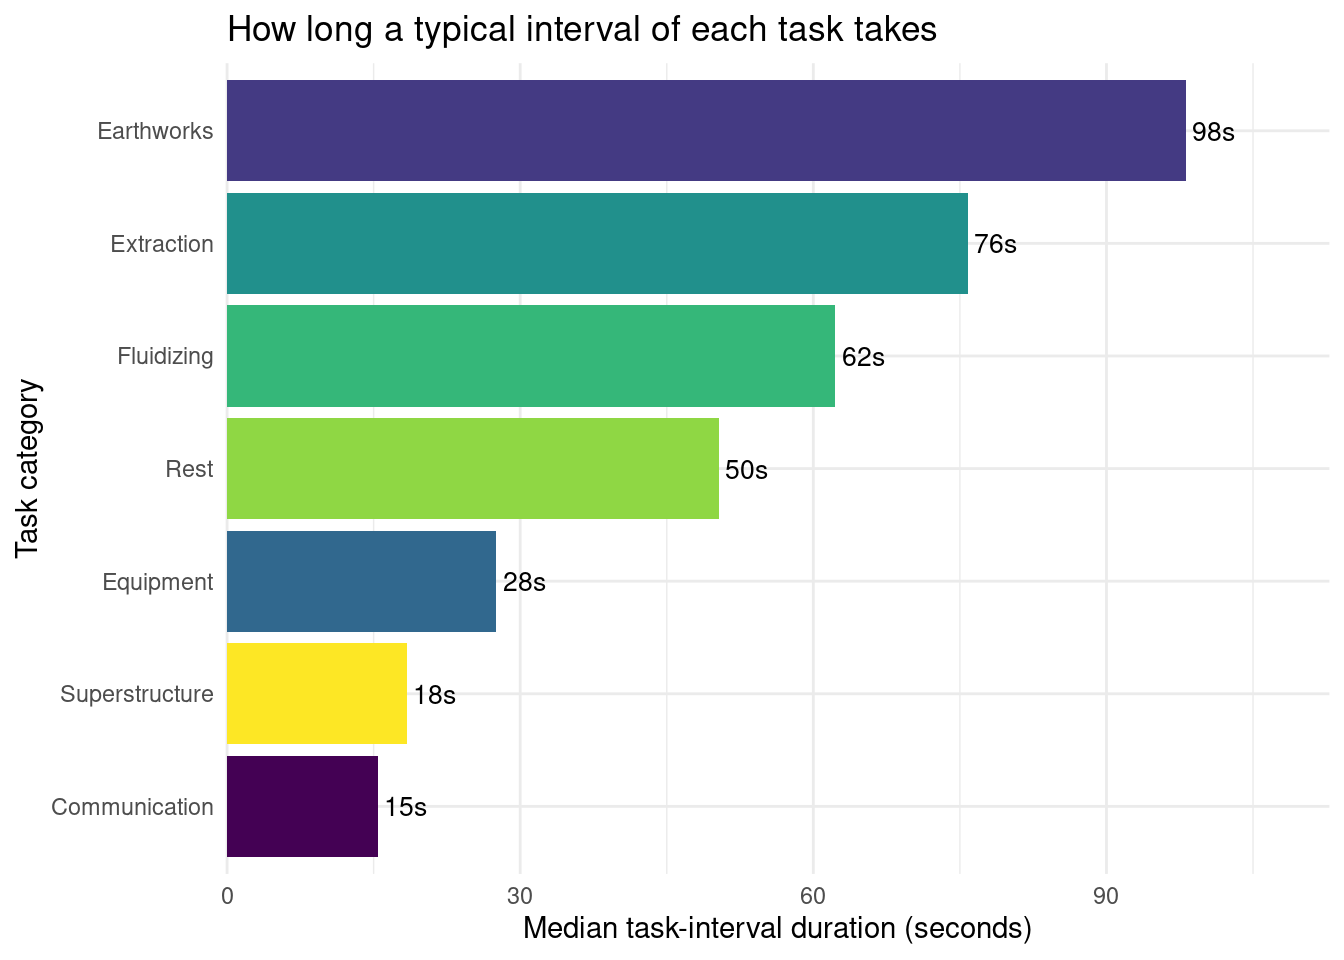
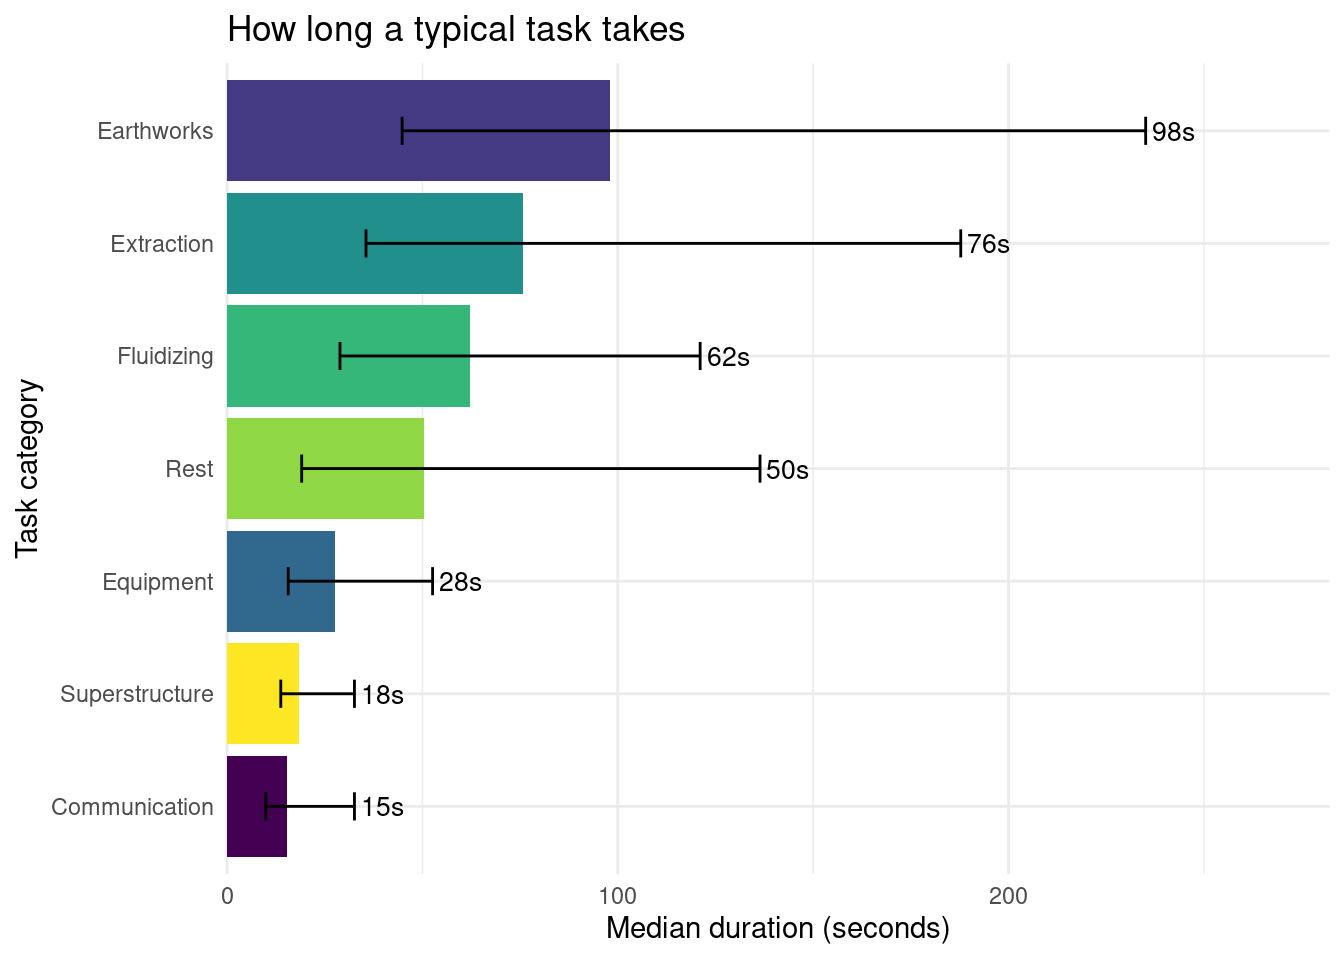
Changed figures to improve comprehension. Removed superfluous bullet point in comculsions section.

diff --git a/docs/index.html b/docs/index.html
@@ -240,16 +240,19 @@ $ job_date         &lt;date&gt; 2026-05-21, 2026-05-21, 2026-05-21, 2026-05-21, 
 <span id="cb5-3"><a href="#cb5-3" aria-hidden="true" tabindex="-1"></a>  <span class="fu">summarise</span>(<span class="at">total_minutes =</span> <span class="fu">sum</span>(duration_seconds) <span class="sc">/</span> <span class="dv">60</span>) <span class="sc">%&gt;%</span></span>
 <span id="cb5-4"><a href="#cb5-4" aria-hidden="true" tabindex="-1"></a>  <span class="fu">arrange</span>(<span class="fu">desc</span>(total_minutes))</span>
 <span id="cb5-5"><a href="#cb5-5" aria-hidden="true" tabindex="-1"></a></span>
-<span id="cb5-6"><a href="#cb5-6" aria-hidden="true" tabindex="-1"></a><span class="fu">ggplot</span>(task_time, <span class="fu">aes</span>(<span class="at">x =</span> <span class="fu">fct_reorder</span>(task, total_minutes), <span class="at">y =</span> total_minutes, <span class="at">fill =</span> task)) <span class="sc">+</span></span>
-<span id="cb5-7"><a href="#cb5-7" aria-hidden="true" tabindex="-1"></a>  <span class="fu">geom_col</span>(<span class="at">show.legend =</span> <span class="cn">FALSE</span>) <span class="sc">+</span></span>
-<span id="cb5-8"><a href="#cb5-8" aria-hidden="true" tabindex="-1"></a>  <span class="fu">coord_flip</span>() <span class="sc">+</span></span>
-<span id="cb5-9"><a href="#cb5-9" aria-hidden="true" tabindex="-1"></a>  <span class="fu">scale_fill_viridis_d</span>() <span class="sc">+</span></span>
-<span id="cb5-10"><a href="#cb5-10" aria-hidden="true" tabindex="-1"></a>  <span class="fu">labs</span>(</span>
-<span id="cb5-11"><a href="#cb5-11" aria-hidden="true" tabindex="-1"></a>    <span class="at">x =</span> <span class="st">"Task category"</span>,</span>
-<span id="cb5-12"><a href="#cb5-12" aria-hidden="true" tabindex="-1"></a>    <span class="at">y =</span> <span class="st">"Total observed time (minutes)"</span>,</span>
-<span id="cb5-13"><a href="#cb5-13" aria-hidden="true" tabindex="-1"></a>    <span class="at">title =</span> <span class="st">"Where gulpers' time goes"</span></span>
-<span id="cb5-14"><a href="#cb5-14" aria-hidden="true" tabindex="-1"></a>  ) <span class="sc">+</span></span>
-<span id="cb5-15"><a href="#cb5-15" aria-hidden="true" tabindex="-1"></a>  <span class="fu">theme_minimal</span>()</span></code></pre></div><button title="Copy to Clipboard" class="code-copy-button"><i class="bi"></i></button></div>
+<span id="cb5-6"><a href="#cb5-6" aria-hidden="true" tabindex="-1"></a>max_axis_minutes <span class="ot">&lt;-</span> <span class="fu">ceiling</span>(<span class="fu">max</span>(task_time<span class="sc">$</span>total_minutes) <span class="sc">/</span> <span class="dv">30</span>) <span class="sc">*</span> <span class="dv">30</span></span>
+<span id="cb5-7"><a href="#cb5-7" aria-hidden="true" tabindex="-1"></a></span>
+<span id="cb5-8"><a href="#cb5-8" aria-hidden="true" tabindex="-1"></a><span class="fu">ggplot</span>(task_time, <span class="fu">aes</span>(<span class="at">x =</span> <span class="fu">fct_reorder</span>(task, total_minutes), <span class="at">y =</span> total_minutes, <span class="at">fill =</span> task)) <span class="sc">+</span></span>
+<span id="cb5-9"><a href="#cb5-9" aria-hidden="true" tabindex="-1"></a>  <span class="fu">geom_col</span>(<span class="at">show.legend =</span> <span class="cn">FALSE</span>) <span class="sc">+</span></span>
+<span id="cb5-10"><a href="#cb5-10" aria-hidden="true" tabindex="-1"></a>  <span class="fu">coord_flip</span>() <span class="sc">+</span></span>
+<span id="cb5-11"><a href="#cb5-11" aria-hidden="true" tabindex="-1"></a>  <span class="fu">scale_fill_viridis_d</span>() <span class="sc">+</span></span>
+<span id="cb5-12"><a href="#cb5-12" aria-hidden="true" tabindex="-1"></a>  <span class="fu">scale_y_continuous</span>(<span class="at">breaks =</span> <span class="fu">seq</span>(<span class="dv">0</span>, max_axis_minutes, <span class="at">by =</span> <span class="dv">30</span>)) <span class="sc">+</span></span>
+<span id="cb5-13"><a href="#cb5-13" aria-hidden="true" tabindex="-1"></a>  <span class="fu">labs</span>(</span>
+<span id="cb5-14"><a href="#cb5-14" aria-hidden="true" tabindex="-1"></a>    <span class="at">x =</span> <span class="st">"Task category"</span>,</span>
+<span id="cb5-15"><a href="#cb5-15" aria-hidden="true" tabindex="-1"></a>    <span class="at">y =</span> <span class="st">"Total observed time (minutes)"</span>,</span>
+<span id="cb5-16"><a href="#cb5-16" aria-hidden="true" tabindex="-1"></a>    <span class="at">title =</span> <span class="st">"Where gulpers' time goes"</span></span>
+<span id="cb5-17"><a href="#cb5-17" aria-hidden="true" tabindex="-1"></a>  ) <span class="sc">+</span></span>
+<span id="cb5-18"><a href="#cb5-18" aria-hidden="true" tabindex="-1"></a>  <span class="fu">theme_minimal</span>()</span></code></pre></div><button title="Copy to Clipboard" class="code-copy-button"><i class="bi"></i></button></div>
 <div class="cell-output-display">
 <div id="fig-task-time" class="quarto-float quarto-figure quarto-figure-center anchored">
 <figure class="quarto-float quarto-float-fig figure">
@@ -268,26 +271,45 @@ Figure&nbsp;1: Total observed time by task category, summed across all three rid
 <section id="share-of-job-time-by-task" class="level2">
 <h2 class="anchored" data-anchor-id="share-of-job-time-by-task">Share of job time by task</h2>
 <div class="cell">
-<div class="code-copy-outer-scaffold"><div class="sourceCode cell-code" id="cb6"><pre class="sourceCode r code-with-copy"><code class="sourceCode r"><span id="cb6-1"><a href="#cb6-1" aria-hidden="true" tabindex="-1"></a>job_labels <span class="ot">&lt;-</span> gulper_data <span class="sc">%&gt;%</span></span>
-<span id="cb6-2"><a href="#cb6-2" aria-hidden="true" tabindex="-1"></a>  <span class="fu">mutate</span>(<span class="at">job_date =</span> <span class="fu">as.character</span>(job_date))</span>
+<div class="code-copy-outer-scaffold"><div class="sourceCode cell-code" id="cb6"><pre class="sourceCode r code-with-copy"><code class="sourceCode r"><span id="cb6-1"><a href="#cb6-1" aria-hidden="true" tabindex="-1"></a>job_dates <span class="ot">&lt;-</span> <span class="fu">sort</span>(<span class="fu">unique</span>(<span class="fu">as.character</span>(gulper_data<span class="sc">$</span>job_date)))</span>
+<span id="cb6-2"><a href="#cb6-2" aria-hidden="true" tabindex="-1"></a>job_tick_labels <span class="ot">&lt;-</span> <span class="fu">paste0</span>(<span class="st">"Job "</span>, <span class="fu">seq_along</span>(job_dates), <span class="st">"</span><span class="sc">\n</span><span class="st">"</span>, job_dates)</span>
 <span id="cb6-3"><a href="#cb6-3" aria-hidden="true" tabindex="-1"></a></span>
-<span id="cb6-4"><a href="#cb6-4" aria-hidden="true" tabindex="-1"></a>job_share_data <span class="ot">&lt;-</span> <span class="fu">bind_rows</span>(</span>
-<span id="cb6-5"><a href="#cb6-5" aria-hidden="true" tabindex="-1"></a>  job_labels,</span>
-<span id="cb6-6"><a href="#cb6-6" aria-hidden="true" tabindex="-1"></a>  job_labels <span class="sc">%&gt;%</span> <span class="fu">mutate</span>(<span class="at">job_date =</span> <span class="st">"All jobs"</span>)</span>
+<span id="cb6-4"><a href="#cb6-4" aria-hidden="true" tabindex="-1"></a>job_percent_data <span class="ot">&lt;-</span> <span class="fu">bind_rows</span>(</span>
+<span id="cb6-5"><a href="#cb6-5" aria-hidden="true" tabindex="-1"></a>  gulper_data <span class="sc">%&gt;%</span> <span class="fu">mutate</span>(<span class="at">job_date =</span> <span class="fu">as.character</span>(job_date)),</span>
+<span id="cb6-6"><a href="#cb6-6" aria-hidden="true" tabindex="-1"></a>  gulper_data <span class="sc">%&gt;%</span> <span class="fu">mutate</span>(<span class="at">job_date =</span> <span class="st">"All jobs"</span>)</span>
 <span id="cb6-7"><a href="#cb6-7" aria-hidden="true" tabindex="-1"></a>) <span class="sc">%&gt;%</span></span>
-<span id="cb6-8"><a href="#cb6-8" aria-hidden="true" tabindex="-1"></a>  <span class="fu">mutate</span>(<span class="at">job_date =</span> <span class="fu">factor</span>(job_date, <span class="at">levels =</span> <span class="fu">c</span>(<span class="fu">sort</span>(<span class="fu">unique</span>(job_labels<span class="sc">$</span>job_date)), <span class="st">"All jobs"</span>)))</span>
-<span id="cb6-9"><a href="#cb6-9" aria-hidden="true" tabindex="-1"></a></span>
-<span id="cb6-10"><a href="#cb6-10" aria-hidden="true" tabindex="-1"></a><span class="fu">ggplot</span>(job_share_data, <span class="fu">aes</span>(<span class="at">x =</span> job_date, <span class="at">y =</span> duration_seconds, <span class="at">fill =</span> task)) <span class="sc">+</span></span>
-<span id="cb6-11"><a href="#cb6-11" aria-hidden="true" tabindex="-1"></a>  <span class="fu">geom_col</span>(<span class="at">position =</span> <span class="st">"fill"</span>) <span class="sc">+</span></span>
-<span id="cb6-12"><a href="#cb6-12" aria-hidden="true" tabindex="-1"></a>  <span class="fu">scale_y_continuous</span>(<span class="at">labels =</span> scales<span class="sc">::</span>percent) <span class="sc">+</span></span>
-<span id="cb6-13"><a href="#cb6-13" aria-hidden="true" tabindex="-1"></a>  <span class="fu">scale_fill_viridis_d</span>() <span class="sc">+</span></span>
-<span id="cb6-14"><a href="#cb6-14" aria-hidden="true" tabindex="-1"></a>  <span class="fu">labs</span>(</span>
-<span id="cb6-15"><a href="#cb6-15" aria-hidden="true" tabindex="-1"></a>    <span class="at">x =</span> <span class="st">"Job (session date)"</span>,</span>
-<span id="cb6-16"><a href="#cb6-16" aria-hidden="true" tabindex="-1"></a>    <span class="at">y =</span> <span class="st">"Share of job time"</span>,</span>
-<span id="cb6-17"><a href="#cb6-17" aria-hidden="true" tabindex="-1"></a>    <span class="at">fill =</span> <span class="st">"Task category"</span>,</span>
-<span id="cb6-18"><a href="#cb6-18" aria-hidden="true" tabindex="-1"></a>    <span class="at">title =</span> <span class="st">"How a job's time breaks down, task by task"</span></span>
-<span id="cb6-19"><a href="#cb6-19" aria-hidden="true" tabindex="-1"></a>  ) <span class="sc">+</span></span>
-<span id="cb6-20"><a href="#cb6-20" aria-hidden="true" tabindex="-1"></a>  <span class="fu">theme_minimal</span>()</span></code></pre></div><button title="Copy to Clipboard" class="code-copy-button"><i class="bi"></i></button></div>
+<span id="cb6-8"><a href="#cb6-8" aria-hidden="true" tabindex="-1"></a>  <span class="fu">group_by</span>(job_date, task) <span class="sc">%&gt;%</span></span>
+<span id="cb6-9"><a href="#cb6-9" aria-hidden="true" tabindex="-1"></a>  <span class="fu">summarise</span>(<span class="at">total_seconds =</span> <span class="fu">sum</span>(duration_seconds), <span class="at">.groups =</span> <span class="st">"drop_last"</span>) <span class="sc">%&gt;%</span></span>
+<span id="cb6-10"><a href="#cb6-10" aria-hidden="true" tabindex="-1"></a>  <span class="fu">mutate</span>(<span class="at">pct =</span> <span class="dv">100</span> <span class="sc">*</span> total_seconds <span class="sc">/</span> <span class="fu">sum</span>(total_seconds)) <span class="sc">%&gt;%</span></span>
+<span id="cb6-11"><a href="#cb6-11" aria-hidden="true" tabindex="-1"></a>  <span class="fu">ungroup</span>() <span class="sc">%&gt;%</span></span>
+<span id="cb6-12"><a href="#cb6-12" aria-hidden="true" tabindex="-1"></a>  <span class="fu">mutate</span>(</span>
+<span id="cb6-13"><a href="#cb6-13" aria-hidden="true" tabindex="-1"></a>    <span class="at">job_label =</span> <span class="fu">if_else</span>(</span>
+<span id="cb6-14"><a href="#cb6-14" aria-hidden="true" tabindex="-1"></a>      job_date <span class="sc">==</span> <span class="st">"All jobs"</span>,</span>
+<span id="cb6-15"><a href="#cb6-15" aria-hidden="true" tabindex="-1"></a>      <span class="st">"All jobs"</span>,</span>
+<span id="cb6-16"><a href="#cb6-16" aria-hidden="true" tabindex="-1"></a>      job_tick_labels[<span class="fu">match</span>(job_date, job_dates)]</span>
+<span id="cb6-17"><a href="#cb6-17" aria-hidden="true" tabindex="-1"></a>    ),</span>
+<span id="cb6-18"><a href="#cb6-18" aria-hidden="true" tabindex="-1"></a>    <span class="co"># a blank, data-free level between "Job 3" and "All jobs" creates a visual gap</span></span>
+<span id="cb6-19"><a href="#cb6-19" aria-hidden="true" tabindex="-1"></a>    <span class="at">job_label =</span> <span class="fu">factor</span>(job_label, <span class="at">levels =</span> <span class="fu">c</span>(job_tick_labels, <span class="st">" "</span>, <span class="st">"All jobs"</span>))</span>
+<span id="cb6-20"><a href="#cb6-20" aria-hidden="true" tabindex="-1"></a>  )</span>
+<span id="cb6-21"><a href="#cb6-21" aria-hidden="true" tabindex="-1"></a></span>
+<span id="cb6-22"><a href="#cb6-22" aria-hidden="true" tabindex="-1"></a><span class="fu">ggplot</span>(job_percent_data, <span class="fu">aes</span>(<span class="at">x =</span> job_label, <span class="at">y =</span> pct, <span class="at">fill =</span> task)) <span class="sc">+</span></span>
+<span id="cb6-23"><a href="#cb6-23" aria-hidden="true" tabindex="-1"></a>  <span class="fu">geom_col</span>() <span class="sc">+</span></span>
+<span id="cb6-24"><a href="#cb6-24" aria-hidden="true" tabindex="-1"></a>  <span class="fu">geom_text</span>(</span>
+<span id="cb6-25"><a href="#cb6-25" aria-hidden="true" tabindex="-1"></a>    <span class="fu">aes</span>(<span class="at">label =</span> <span class="fu">if_else</span>(pct <span class="sc">&gt;=</span> <span class="dv">4</span>, <span class="fu">paste0</span>(<span class="fu">round</span>(pct), <span class="st">"%"</span>), <span class="st">""</span>)),</span>
+<span id="cb6-26"><a href="#cb6-26" aria-hidden="true" tabindex="-1"></a>    <span class="at">position =</span> <span class="fu">position_stack</span>(<span class="at">vjust =</span> <span class="fl">0.5</span>),</span>
+<span id="cb6-27"><a href="#cb6-27" aria-hidden="true" tabindex="-1"></a>    <span class="at">size =</span> <span class="dv">3</span>,</span>
+<span id="cb6-28"><a href="#cb6-28" aria-hidden="true" tabindex="-1"></a>    <span class="at">colour =</span> <span class="st">"white"</span></span>
+<span id="cb6-29"><a href="#cb6-29" aria-hidden="true" tabindex="-1"></a>  ) <span class="sc">+</span></span>
+<span id="cb6-30"><a href="#cb6-30" aria-hidden="true" tabindex="-1"></a>  <span class="fu">scale_x_discrete</span>(<span class="at">drop =</span> <span class="cn">FALSE</span>) <span class="sc">+</span></span>
+<span id="cb6-31"><a href="#cb6-31" aria-hidden="true" tabindex="-1"></a>  <span class="fu">scale_y_continuous</span>(<span class="at">labels =</span> <span class="cf">function</span>(x) <span class="fu">paste0</span>(x, <span class="st">"%"</span>)) <span class="sc">+</span></span>
+<span id="cb6-32"><a href="#cb6-32" aria-hidden="true" tabindex="-1"></a>  <span class="fu">scale_fill_viridis_d</span>() <span class="sc">+</span></span>
+<span id="cb6-33"><a href="#cb6-33" aria-hidden="true" tabindex="-1"></a>  <span class="fu">labs</span>(</span>
+<span id="cb6-34"><a href="#cb6-34" aria-hidden="true" tabindex="-1"></a>    <span class="at">x =</span> <span class="st">"Job"</span>,</span>
+<span id="cb6-35"><a href="#cb6-35" aria-hidden="true" tabindex="-1"></a>    <span class="at">y =</span> <span class="st">"Share of job time"</span>,</span>
+<span id="cb6-36"><a href="#cb6-36" aria-hidden="true" tabindex="-1"></a>    <span class="at">fill =</span> <span class="st">"Task category"</span>,</span>
+<span id="cb6-37"><a href="#cb6-37" aria-hidden="true" tabindex="-1"></a>    <span class="at">title =</span> <span class="st">"How a job's time breaks down, task by task"</span></span>
+<span id="cb6-38"><a href="#cb6-38" aria-hidden="true" tabindex="-1"></a>  ) <span class="sc">+</span></span>
+<span id="cb6-39"><a href="#cb6-39" aria-hidden="true" tabindex="-1"></a>  <span class="fu">theme_minimal</span>()</span></code></pre></div><button title="Copy to Clipboard" class="code-copy-button"><i class="bi"></i></button></div>
 <div class="cell-output-display">
 <div id="fig-task-share" class="quarto-float quarto-figure quarto-figure-center anchored">
 <figure class="quarto-float quarto-float-fig figure">
@@ -295,34 +317,39 @@ Figure&nbsp;1: Total observed time by task category, summed across all three rid
 <img src="index_files/figure-html/fig-task-share-1.png" class="img-fluid figure-img" width="672">
 </div>
 <figcaption class="quarto-float-caption-bottom quarto-float-caption quarto-float-fig" id="fig-task-share-caption-0ceaefa1-69ba-4598-a22c-09a6ac19f8ca">
-Figure&nbsp;2: Percentage of each job’s total observed time spent on each task category, shown for the three individual ridealong sessions plus a fourth ‘All jobs’ column combining all three.
+Figure&nbsp;2: Percentage of each job’s total observed time spent on each task category, for the three individual ridealong sessions (Job 1-3, labelled with their session dates) plus a combined ‘All jobs’ column, separated by a gap from the individual jobs. Segment labels give the exact percentage for shares of 4% or more.
 </figcaption>
 </figure>
 </div>
 </div>
 </div>
-<p><a href="#fig-task-share" class="quarto-xref">Figure&nbsp;2</a> shows that Earthworks is the single largest share of every job (29-45%), but the balance of the rest of the time shifts a lot from job to job: Extraction and Fluidizing together used over 40% of the 31 May session but under 15% of the 13 June session, while Rest was rare on 31 May (3%) yet accounted for over 40% of the 13 June session. The combined “All jobs” column averages this out to roughly 35% Earthworks, 31% Rest, 11% Extraction, 9% Fluidizing, 8% Equipment, 5% Communication and 1% Superstructure, which is a useful overall benchmark but masks how much the mix actually swings from one job to the next. A single fixed cost-driver rate per task would therefore understate the cost of jobs with more digging and recovery time and overstate the cost of jobs dominated by fluidizing and extraction.</p>
+<p><a href="#fig-task-share" class="quarto-xref">Figure&nbsp;2</a> shows that Earthworks is the single largest share of every job (29-45%), but the balance of the rest of the time shifts a lot from job to job: Extraction and Fluidizing together used over 40% of Job 2 (31 May) but under 15% of Job 3 (13 June), while Rest was rare on Job 2 (3%) yet accounted for over 40% of Job 3. The combined “All jobs” column, set apart with its own gap, averages this out to roughly 35% Earthworks, 31% Rest, 11% Extraction, 9% Fluidizing, 8% Equipment, 5% Communication and 1% Superstructure, which is a useful overall benchmark but masks how much the mix actually swings from one job to the next. A single fixed cost-driver rate per task would therefore understate the cost of jobs with more digging and recovery time and overstate the cost of jobs dominated by fluidizing and extraction.</p>
 </section>
 <section id="typical-duration-by-task" class="level2">
 <h2 class="anchored" data-anchor-id="typical-duration-by-task">Typical duration by task</h2>
 <div class="cell">
 <div class="code-copy-outer-scaffold"><div class="sourceCode cell-code" id="cb7"><pre class="sourceCode r code-with-copy"><code class="sourceCode r"><span id="cb7-1"><a href="#cb7-1" aria-hidden="true" tabindex="-1"></a>task_duration_typical <span class="ot">&lt;-</span> gulper_data <span class="sc">%&gt;%</span></span>
 <span id="cb7-2"><a href="#cb7-2" aria-hidden="true" tabindex="-1"></a>  <span class="fu">group_by</span>(task) <span class="sc">%&gt;%</span></span>
-<span id="cb7-3"><a href="#cb7-3" aria-hidden="true" tabindex="-1"></a>  <span class="fu">summarise</span>(<span class="at">median_sec =</span> <span class="fu">median</span>(duration_seconds)) <span class="sc">%&gt;%</span></span>
-<span id="cb7-4"><a href="#cb7-4" aria-hidden="true" tabindex="-1"></a>  <span class="fu">arrange</span>(<span class="fu">desc</span>(median_sec))</span>
-<span id="cb7-5"><a href="#cb7-5" aria-hidden="true" tabindex="-1"></a></span>
-<span id="cb7-6"><a href="#cb7-6" aria-hidden="true" tabindex="-1"></a><span class="fu">ggplot</span>(task_duration_typical, <span class="fu">aes</span>(<span class="at">x =</span> <span class="fu">fct_reorder</span>(task, median_sec), <span class="at">y =</span> median_sec, <span class="at">fill =</span> task)) <span class="sc">+</span></span>
-<span id="cb7-7"><a href="#cb7-7" aria-hidden="true" tabindex="-1"></a>  <span class="fu">geom_col</span>(<span class="at">show.legend =</span> <span class="cn">FALSE</span>) <span class="sc">+</span></span>
-<span id="cb7-8"><a href="#cb7-8" aria-hidden="true" tabindex="-1"></a>  <span class="fu">geom_text</span>(<span class="fu">aes</span>(<span class="at">label =</span> <span class="fu">paste0</span>(<span class="fu">round</span>(median_sec), <span class="st">"s"</span>)), <span class="at">hjust =</span> <span class="sc">-</span><span class="fl">0.15</span>, <span class="at">size =</span> <span class="fl">3.5</span>) <span class="sc">+</span></span>
-<span id="cb7-9"><a href="#cb7-9" aria-hidden="true" tabindex="-1"></a>  <span class="fu">coord_flip</span>(<span class="at">clip =</span> <span class="st">"off"</span>) <span class="sc">+</span></span>
-<span id="cb7-10"><a href="#cb7-10" aria-hidden="true" tabindex="-1"></a>  <span class="fu">scale_fill_viridis_d</span>() <span class="sc">+</span></span>
-<span id="cb7-11"><a href="#cb7-11" aria-hidden="true" tabindex="-1"></a>  <span class="fu">scale_y_continuous</span>(<span class="at">expand =</span> <span class="fu">expansion</span>(<span class="at">mult =</span> <span class="fu">c</span>(<span class="dv">0</span>, <span class="fl">0.15</span>))) <span class="sc">+</span></span>
-<span id="cb7-12"><a href="#cb7-12" aria-hidden="true" tabindex="-1"></a>  <span class="fu">labs</span>(</span>
-<span id="cb7-13"><a href="#cb7-13" aria-hidden="true" tabindex="-1"></a>    <span class="at">x =</span> <span class="st">"Task category"</span>,</span>
-<span id="cb7-14"><a href="#cb7-14" aria-hidden="true" tabindex="-1"></a>    <span class="at">y =</span> <span class="st">"Median task-interval duration (seconds)"</span>,</span>
-<span id="cb7-15"><a href="#cb7-15" aria-hidden="true" tabindex="-1"></a>    <span class="at">title =</span> <span class="st">"How long a typical interval of each task takes"</span></span>
-<span id="cb7-16"><a href="#cb7-16" aria-hidden="true" tabindex="-1"></a>  ) <span class="sc">+</span></span>
-<span id="cb7-17"><a href="#cb7-17" aria-hidden="true" tabindex="-1"></a>  <span class="fu">theme_minimal</span>()</span></code></pre></div><button title="Copy to Clipboard" class="code-copy-button"><i class="bi"></i></button></div>
+<span id="cb7-3"><a href="#cb7-3" aria-hidden="true" tabindex="-1"></a>  <span class="fu">summarise</span>(</span>
+<span id="cb7-4"><a href="#cb7-4" aria-hidden="true" tabindex="-1"></a>    <span class="at">median_sec =</span> <span class="fu">median</span>(duration_seconds),</span>
+<span id="cb7-5"><a href="#cb7-5" aria-hidden="true" tabindex="-1"></a>    <span class="at">q1_sec =</span> <span class="fu">quantile</span>(duration_seconds, <span class="fl">0.25</span>),</span>
+<span id="cb7-6"><a href="#cb7-6" aria-hidden="true" tabindex="-1"></a>    <span class="at">q3_sec =</span> <span class="fu">quantile</span>(duration_seconds, <span class="fl">0.75</span>)</span>
+<span id="cb7-7"><a href="#cb7-7" aria-hidden="true" tabindex="-1"></a>  ) <span class="sc">%&gt;%</span></span>
+<span id="cb7-8"><a href="#cb7-8" aria-hidden="true" tabindex="-1"></a>  <span class="fu">arrange</span>(<span class="fu">desc</span>(median_sec))</span>
+<span id="cb7-9"><a href="#cb7-9" aria-hidden="true" tabindex="-1"></a></span>
+<span id="cb7-10"><a href="#cb7-10" aria-hidden="true" tabindex="-1"></a><span class="fu">ggplot</span>(task_duration_typical, <span class="fu">aes</span>(<span class="at">x =</span> <span class="fu">fct_reorder</span>(task, median_sec), <span class="at">y =</span> median_sec, <span class="at">fill =</span> task)) <span class="sc">+</span></span>
+<span id="cb7-11"><a href="#cb7-11" aria-hidden="true" tabindex="-1"></a>  <span class="fu">geom_col</span>(<span class="at">show.legend =</span> <span class="cn">FALSE</span>) <span class="sc">+</span></span>
+<span id="cb7-12"><a href="#cb7-12" aria-hidden="true" tabindex="-1"></a>  <span class="fu">geom_errorbar</span>(<span class="fu">aes</span>(<span class="at">ymin =</span> q1_sec, <span class="at">ymax =</span> q3_sec), <span class="at">width =</span> <span class="fl">0.25</span>) <span class="sc">+</span></span>
+<span id="cb7-13"><a href="#cb7-13" aria-hidden="true" tabindex="-1"></a>  <span class="fu">geom_text</span>(<span class="fu">aes</span>(<span class="at">y =</span> q3_sec, <span class="at">label =</span> <span class="fu">paste0</span>(<span class="fu">round</span>(median_sec), <span class="st">"s"</span>)), <span class="at">hjust =</span> <span class="sc">-</span><span class="fl">0.15</span>, <span class="at">size =</span> <span class="fl">3.5</span>) <span class="sc">+</span></span>
+<span id="cb7-14"><a href="#cb7-14" aria-hidden="true" tabindex="-1"></a>  <span class="fu">coord_flip</span>(<span class="at">clip =</span> <span class="st">"off"</span>) <span class="sc">+</span></span>
+<span id="cb7-15"><a href="#cb7-15" aria-hidden="true" tabindex="-1"></a>  <span class="fu">scale_fill_viridis_d</span>() <span class="sc">+</span></span>
+<span id="cb7-16"><a href="#cb7-16" aria-hidden="true" tabindex="-1"></a>  <span class="fu">scale_y_continuous</span>(<span class="at">expand =</span> <span class="fu">expansion</span>(<span class="at">mult =</span> <span class="fu">c</span>(<span class="dv">0</span>, <span class="fl">0.2</span>))) <span class="sc">+</span></span>
+<span id="cb7-17"><a href="#cb7-17" aria-hidden="true" tabindex="-1"></a>  <span class="fu">labs</span>(</span>
+<span id="cb7-18"><a href="#cb7-18" aria-hidden="true" tabindex="-1"></a>    <span class="at">x =</span> <span class="st">"Task category"</span>,</span>
+<span id="cb7-19"><a href="#cb7-19" aria-hidden="true" tabindex="-1"></a>    <span class="at">y =</span> <span class="st">"Median duration (seconds)"</span>,</span>
+<span id="cb7-20"><a href="#cb7-20" aria-hidden="true" tabindex="-1"></a>    <span class="at">title =</span> <span class="st">"How long a typical task takes"</span></span>
+<span id="cb7-21"><a href="#cb7-21" aria-hidden="true" tabindex="-1"></a>  ) <span class="sc">+</span></span>
+<span id="cb7-22"><a href="#cb7-22" aria-hidden="true" tabindex="-1"></a>  <span class="fu">theme_minimal</span>()</span></code></pre></div><button title="Copy to Clipboard" class="code-copy-button"><i class="bi"></i></button></div>
 <div class="cell-output-display">
 <div id="fig-typical-duration" class="quarto-float quarto-figure quarto-figure-center anchored">
 <figure class="quarto-float quarto-float-fig figure">
@@ -330,13 +357,13 @@ Figure&nbsp;2: Percentage of each job’s total observed time spent on each task
 <img src="index_files/figure-html/fig-typical-duration-1.png" class="img-fluid figure-img" width="672">
 </div>
 <figcaption class="quarto-float-caption-bottom quarto-float-caption quarto-float-fig" id="fig-typical-duration-caption-0ceaefa1-69ba-4598-a22c-09a6ac19f8ca">
-Figure&nbsp;3: Median duration of a task interval, by task category, on an ordinary (linear) scale. Bars are labelled with the exact median duration in seconds.
+Figure&nbsp;3: Median duration by task category, on an ordinary (linear) scale. Error bars show the interquartile range (25th-75th percentile); bar labels give the exact median duration in seconds.
 </figcaption>
 </figure>
 </div>
 </div>
 </div>
-<p><a href="#fig-typical-duration" class="quarto-xref">Figure&nbsp;3</a> shows on an ordinary linear scale just how much longer a typical Earthworks interval is than a typical Communication interval: about 98 seconds versus roughly 15 seconds, a roughly six-fold difference that a log scale can visually understate. Median rather than mean duration is plotted here because a handful of unusually long intervals (up to about 25 minutes for Earthworks) would otherwise pull the bars up and obscure the typical case; the full spread, including those outliers, is reported in <a href="#tbl-task-summary" class="quarto-xref">Table&nbsp;1</a>.</p>
+<p><a href="#fig-typical-duration" class="quarto-xref">Figure&nbsp;3</a> shows on an ordinary linear scale just how much longer a typical Earthworks task takes than a typical Communication task: about 98 seconds versus roughly 15 seconds, a roughly six-fold difference that a log scale can visually understate. The error bars show that Earthworks and Extraction also have the widest interquartile range, meaning individual instances of these tasks can deviate substantially from the typical duration, whereas Communication is both short and consistent. Median rather than mean duration is plotted here because a handful of unusually long tasks (up to about 25 minutes for Earthworks) would otherwise pull the bars up and obscure the typical case; the full spread, including those outliers, is reported in <a href="#tbl-task-summary" class="quarto-xref">Table&nbsp;1</a>.</p>
 </section>
 <section id="summary-statistics" class="level2">
 <h2 class="anchored" data-anchor-id="summary-statistics">Summary statistics</h2>
@@ -358,7 +385,7 @@ Figure&nbsp;3: Median duration of a task interval, by task category, on an ordin
 <div id="tbl-task-summary" class="cell quarto-float quarto-figure quarto-figure-center anchored">
 <figure class="quarto-float quarto-float-tbl figure">
 <figcaption class="quarto-float-caption-top quarto-float-caption quarto-float-tbl" id="tbl-task-summary-caption-0ceaefa1-69ba-4598-a22c-09a6ac19f8ca">
-Table&nbsp;1: Summary statistics for task-interval duration (seconds) by task category.
+Table&nbsp;1: Summary statistics for task duration (seconds) by task category.
 </figcaption>
 <div aria-describedby="tbl-task-summary-caption-0ceaefa1-69ba-4598-a22c-09a6ac19f8ca">
 <div class="cell-output-display">
@@ -437,7 +464,6 @@ Table&nbsp;1: Summary statistics for task-interval duration (seconds) by task ca
 <ul>
 <li>Earthworks and Rest jointly account for roughly two-thirds of all observed gulper time across the three sessions, more than the combined Extraction and Fluidizing tasks conventionally seen as the “productive” core of pit emptying.</li>
 <li>Task durations vary widely in both level and spread: Communication intervals are short and consistent, while Earthworks and Extraction are longer and more variable.</li>
-<li>Individual gulpers differ substantially in both how often and how long they were observed working, pointing to real variation in work allocation across a single job.</li>
 <li>For TDABC-based costing of gulper services, earthworks and rest/recovery time deserve as much attention as the extraction and fluidizing tasks traditionally treated as the core of the job.</li>
 <li>Future work should link this task-duration data to labour cost-driver rates and job-level metadata to produce a complete per-job cost estimate.</li>
 </ul>